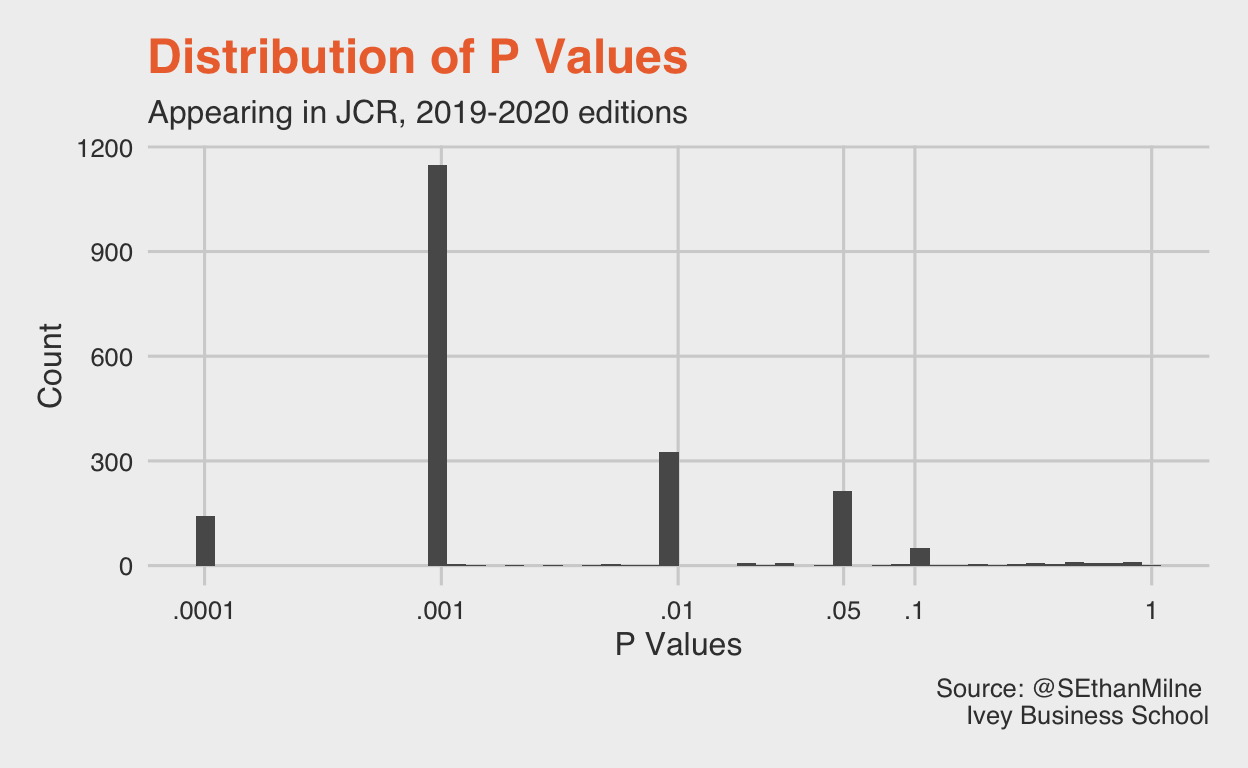
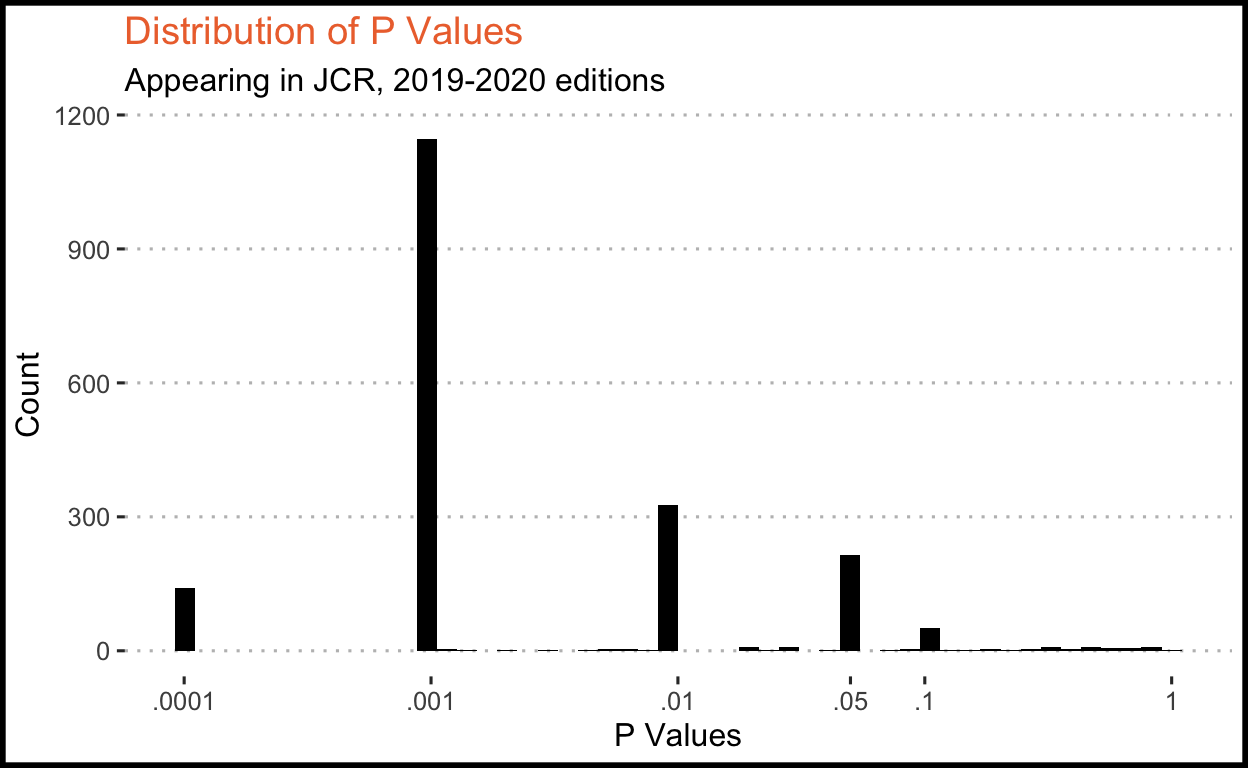
update jcr p value plot

diff --git a/_posts/2022-03-03-jcr-p-values/jcr-p-values.html b/_posts/2022-03-03-jcr-p-values/jcr-p-values.html
@@ -1572,23 +1572,24 @@ code span.wa { color: #5e5e5e; font-style: italic; } /* Warning */
 <div class="sourceCode">
 <pre class="sourceCode r"><code class="sourceCode r"><span class='kw'><a href='https://rdrr.io/r/base/library.html'>library</a></span><span class='op'>(</span><span class='va'><a href='https://github.com/jrnold/ggthemes'>ggthemes</a></span><span class='op'>)</span>
 <span class='kw'><a href='https://rdrr.io/r/base/library.html'>library</a></span><span class='op'>(</span><span class='va'><a href='https://wilkelab.org/ggtext/'>ggtext</a></span><span class='op'>)</span>
+<span class='kw'><a href='https://rdrr.io/r/base/library.html'>library</a></span><span class='op'>(</span><span class='va'><a href='https://rpkgs.datanovia.com/ggpubr/'>ggpubr</a></span><span class='op'>)</span>
 
 <span class='fu'><a href='https://ggplot2.tidyverse.org/reference/ggplot.html'>ggplot</a></span><span class='op'>(</span><span class='va'>Cleaned_Results</span>, <span class='fu'><a href='https://ggplot2.tidyverse.org/reference/aes.html'>aes</a></span><span class='op'>(</span>x <span class='op'>=</span> <span class='va'>Raw_Value</span><span class='op'>)</span><span class='op'>)</span> <span class='op'>+</span>
-  <span class='fu'><a href='https://ggplot2.tidyverse.org/reference/geom_histogram.html'>geom_histogram</a></span><span class='op'>(</span>bins <span class='op'>=</span> <span class='fl'>50</span><span class='op'>)</span> <span class='op'>+</span>
+  <span class='fu'><a href='https://ggplot2.tidyverse.org/reference/geom_histogram.html'>geom_histogram</a></span><span class='op'>(</span>bins <span class='op'>=</span> <span class='fl'>50</span>, fill <span class='op'>=</span> <span class='st'>"black"</span><span class='op'>)</span> <span class='op'>+</span>
   <span class='fu'><a href='https://ggplot2.tidyverse.org/reference/scale_continuous.html'>scale_x_log10</a></span><span class='op'>(</span>breaks <span class='op'>=</span> <span class='fu'><a href='https://rdrr.io/r/base/c.html'>c</a></span><span class='op'>(</span><span class='fl'>0.0001</span>, <span class='fl'>0.001</span>, <span class='fl'>0.01</span>, <span class='fl'>0.05</span>, <span class='fl'>0.1</span>, <span class='fl'>1</span><span class='op'>)</span>,
                 labels <span class='op'>=</span> <span class='fu'><a href='https://rdrr.io/r/base/c.html'>c</a></span><span class='op'>(</span><span class='st'>".0001"</span>, <span class='st'>".001"</span>, <span class='st'>".01"</span>, <span class='st'>".05"</span>, <span class='st'>".1"</span>, <span class='st'>"1"</span><span class='op'>)</span><span class='op'>)</span> <span class='op'>+</span>
-  <span class='fu'><a href='https://rdrr.io/pkg/ggthemes/man/theme_fivethirtyeight.html'>theme_fivethirtyeight</a></span><span class='op'>(</span><span class='op'>)</span> <span class='op'>+</span>
+  <span class='fu'><a href='https://rpkgs.datanovia.com/ggpubr/reference/theme_pubr.html'>theme_pubclean</a></span><span class='op'>(</span><span class='op'>)</span> <span class='op'>+</span>
   <span class='fu'><a href='https://ggplot2.tidyverse.org/reference/theme.html'>theme</a></span><span class='op'>(</span>
     axis.title.x <span class='op'>=</span> <span class='fu'><a href='https://ggplot2.tidyverse.org/reference/element.html'>element_text</a></span><span class='op'>(</span><span class='op'>)</span>,
     axis.title.y <span class='op'>=</span> <span class='fu'><a href='https://ggplot2.tidyverse.org/reference/element.html'>element_text</a></span><span class='op'>(</span><span class='op'>)</span>,
-    plot.title <span class='op'>=</span> <span class='fu'><a href='https://wilkelab.org/ggtext/reference/element_markdown.html'>element_markdown</a></span><span class='op'>(</span><span class='op'>)</span>
+    plot.title <span class='op'>=</span> <span class='fu'><a href='https://wilkelab.org/ggtext/reference/element_markdown.html'>element_markdown</a></span><span class='op'>(</span><span class='op'>)</span>,
+    plot.background <span class='op'>=</span> <span class='fu'><a href='https://ggplot2.tidyverse.org/reference/element.html'>element_rect</a></span><span class='op'>(</span>colour <span class='op'>=</span> <span class='st'>"black"</span>, fill<span class='op'>=</span><span class='cn'>NA</span>, size<span class='op'>=</span><span class='fl'>2</span><span class='op'>)</span>
   <span class='op'>)</span> <span class='op'>+</span>
   <span class='fu'><a href='https://ggplot2.tidyverse.org/reference/labs.html'>labs</a></span><span class='op'>(</span>
     title <span class='op'>=</span> <span class='st'>"&lt;span style = 'color: #ed713a;'&gt;Distribution of P Values&lt;/span&gt;"</span>,
     subtitle <span class='op'>=</span> <span class='st'>"Appearing in JCR, 2019-2020 editions"</span>,
     x <span class='op'>=</span> <span class='st'>"P Values"</span>,
-    y <span class='op'>=</span> <span class='st'>"Count"</span>,
-    caption <span class='op'>=</span> <span class='st'>"Source: @SEthanMilne \n Ivey Business School"</span>
+    y <span class='op'>=</span> <span class='st'>"Count"</span>
   <span class='op'>)</span>
 </code></pre>
 </div>

diff --git a/_site/posts/2022-03-03-jcr-p-values/index.html b/_site/posts/2022-03-03-jcr-p-values/index.html
@@ -2520,23 +2520,24 @@ d-appendix d-footnote-list a.footnote-backlink {
 <div class="sourceCode">
 <pre class="sourceCode r"><code class="sourceCode r"><span class='kw'><a href='https://rdrr.io/r/base/library.html'>library</a></span><span class='op'>(</span><span class='va'><a href='https://github.com/jrnold/ggthemes'>ggthemes</a></span><span class='op'>)</span>
 <span class='kw'><a href='https://rdrr.io/r/base/library.html'>library</a></span><span class='op'>(</span><span class='va'><a href='https://wilkelab.org/ggtext/'>ggtext</a></span><span class='op'>)</span>
+<span class='kw'><a href='https://rdrr.io/r/base/library.html'>library</a></span><span class='op'>(</span><span class='va'><a href='https://rpkgs.datanovia.com/ggpubr/'>ggpubr</a></span><span class='op'>)</span>
 
 <span class='fu'><a href='https://ggplot2.tidyverse.org/reference/ggplot.html'>ggplot</a></span><span class='op'>(</span><span class='va'>Cleaned_Results</span>, <span class='fu'><a href='https://ggplot2.tidyverse.org/reference/aes.html'>aes</a></span><span class='op'>(</span>x <span class='op'>=</span> <span class='va'>Raw_Value</span><span class='op'>)</span><span class='op'>)</span> <span class='op'>+</span>
-  <span class='fu'><a href='https://ggplot2.tidyverse.org/reference/geom_histogram.html'>geom_histogram</a></span><span class='op'>(</span>bins <span class='op'>=</span> <span class='fl'>50</span><span class='op'>)</span> <span class='op'>+</span>
+  <span class='fu'><a href='https://ggplot2.tidyverse.org/reference/geom_histogram.html'>geom_histogram</a></span><span class='op'>(</span>bins <span class='op'>=</span> <span class='fl'>50</span>, fill <span class='op'>=</span> <span class='st'>"black"</span><span class='op'>)</span> <span class='op'>+</span>
   <span class='fu'><a href='https://ggplot2.tidyverse.org/reference/scale_continuous.html'>scale_x_log10</a></span><span class='op'>(</span>breaks <span class='op'>=</span> <span class='fu'><a href='https://rdrr.io/r/base/c.html'>c</a></span><span class='op'>(</span><span class='fl'>0.0001</span>, <span class='fl'>0.001</span>, <span class='fl'>0.01</span>, <span class='fl'>0.05</span>, <span class='fl'>0.1</span>, <span class='fl'>1</span><span class='op'>)</span>,
                 labels <span class='op'>=</span> <span class='fu'><a href='https://rdrr.io/r/base/c.html'>c</a></span><span class='op'>(</span><span class='st'>".0001"</span>, <span class='st'>".001"</span>, <span class='st'>".01"</span>, <span class='st'>".05"</span>, <span class='st'>".1"</span>, <span class='st'>"1"</span><span class='op'>)</span><span class='op'>)</span> <span class='op'>+</span>
-  <span class='fu'><a href='https://rdrr.io/pkg/ggthemes/man/theme_fivethirtyeight.html'>theme_fivethirtyeight</a></span><span class='op'>(</span><span class='op'>)</span> <span class='op'>+</span>
+  <span class='fu'><a href='https://rpkgs.datanovia.com/ggpubr/reference/theme_pubr.html'>theme_pubclean</a></span><span class='op'>(</span><span class='op'>)</span> <span class='op'>+</span>
   <span class='fu'><a href='https://ggplot2.tidyverse.org/reference/theme.html'>theme</a></span><span class='op'>(</span>
     axis.title.x <span class='op'>=</span> <span class='fu'><a href='https://ggplot2.tidyverse.org/reference/element.html'>element_text</a></span><span class='op'>(</span><span class='op'>)</span>,
     axis.title.y <span class='op'>=</span> <span class='fu'><a href='https://ggplot2.tidyverse.org/reference/element.html'>element_text</a></span><span class='op'>(</span><span class='op'>)</span>,
-    plot.title <span class='op'>=</span> <span class='fu'><a href='https://wilkelab.org/ggtext/reference/element_markdown.html'>element_markdown</a></span><span class='op'>(</span><span class='op'>)</span>
+    plot.title <span class='op'>=</span> <span class='fu'><a href='https://wilkelab.org/ggtext/reference/element_markdown.html'>element_markdown</a></span><span class='op'>(</span><span class='op'>)</span>,
+    plot.background <span class='op'>=</span> <span class='fu'><a href='https://ggplot2.tidyverse.org/reference/element.html'>element_rect</a></span><span class='op'>(</span>colour <span class='op'>=</span> <span class='st'>"black"</span>, fill<span class='op'>=</span><span class='cn'>NA</span>, size<span class='op'>=</span><span class='fl'>2</span><span class='op'>)</span>
   <span class='op'>)</span> <span class='op'>+</span>
   <span class='fu'><a href='https://ggplot2.tidyverse.org/reference/labs.html'>labs</a></span><span class='op'>(</span>
     title <span class='op'>=</span> <span class='st'>"&lt;span style = 'color: #ed713a;'&gt;Distribution of P Values&lt;/span&gt;"</span>,
     subtitle <span class='op'>=</span> <span class='st'>"Appearing in JCR, 2019-2020 editions"</span>,
     x <span class='op'>=</span> <span class='st'>"P Values"</span>,
-    y <span class='op'>=</span> <span class='st'>"Count"</span>,
-    caption <span class='op'>=</span> <span class='st'>"Source: @SEthanMilne \n Ivey Business School"</span>
+    y <span class='op'>=</span> <span class='st'>"Count"</span>
   <span class='op'>)</span>
 </code></pre>
 </div>
